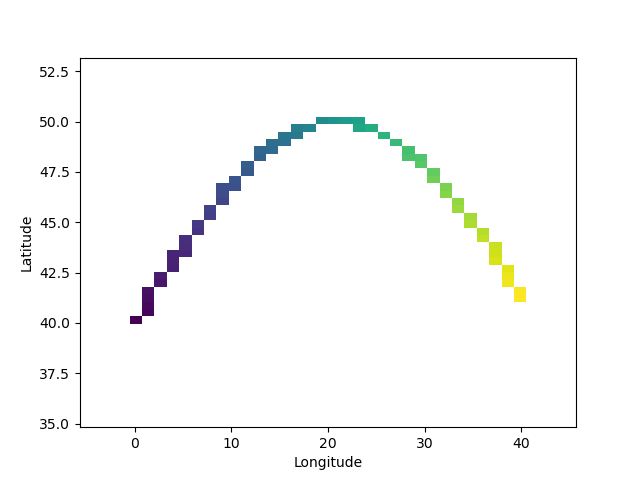
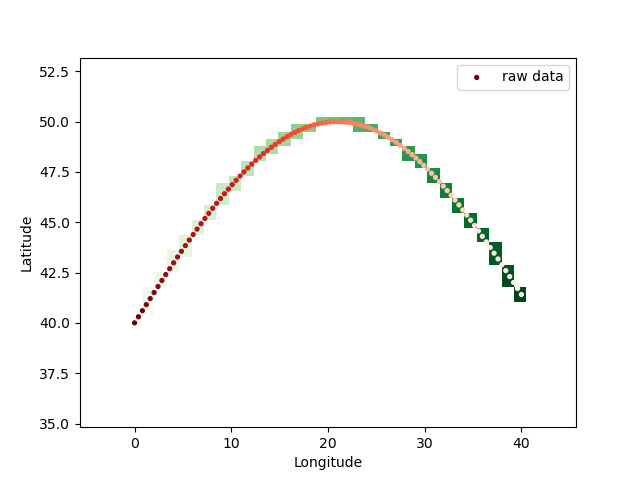
Update Sphinx
Add `installation` page to docs

Add `installation` page to docs

Changed region(s): [[0.2188, 0.2188, 0.8438, 0.6562], [0.7812, 0.125, 0.9062, 0.1875], [0.1875, 0.6562, 0.2188, 0.6875]]

diff --git a/src/oceanpack/helpers.py b/src/oceanpack/helpers.py
@@ -464,13 +464,15 @@ def grid_dataframe(points, vals, xi, export_grid=False):
     -------
     >>> df = pd.DataFrame({'lon': np.linspace(0, 40, 100),
     >>>                    'lat': np.sin(np.linspace(0, 3, 100))*10 + 40,
-    >>>                    'data': np.linspace(200,240,100)})
+    >>>                    'data': np.linspace(240,200,100)})
     >>> xi = np.linspace(-5, 45, 40)
     >>> yi = np.linspace(35, 53, 50)
     >>> gridded = grid_dataframe((df.lon, df.lat), df.data, (xi, yi))
-    >>> plt.pcolormesh(xi, yi, gridded, shading='auto')
+    >>> plt.pcolormesh(xi, yi, gridded, shading='auto', cmap='Greens_r')
+    >>> plt.scatter(df.lon, df.lat, c=df.data, marker='.', lw=.75, cmap='Reds', label='raw data')
     >>> plt.xlabel('Longitude')
     >>> plt.ylabel('Latitude')
+    >>> plt.legend()
     >>> plt.show()
 
     .. image:: ../_static/grid_dataframe_plot.png
@@ -510,7 +512,13 @@ def grid_dataframe(points, vals, xi, export_grid=False):
 
 def check_input_for_duplicates(func):
     """A decorator that checks a list of file paths (the first and only argument of the wrapped function) for duplicates.
-    Detected duplicates are dropped from the list such that the function can deal with the cleaned-up list."""
+    For example, when you call the function :func:`oceanpack.io_routines.read_oceanpack` with a list of many files, the
+    decorator checks the input for duplicates before the read-in routine actually processes the files.
+    The decorator makes use of the :func:`os.stat` signatures (file type, size, and modification time) to compare files
+    pair-wise.
+
+    Detected duplicates are dropped from the list such that the function can deal with the cleaned-up list.
+    """
     # The functools._wraps decorator ensures that `func` can still be parsed by Sphinx. Usually, decorated functions can not be parsed by Sphinx.
     @_wraps(func)
     def wrapper(file_list):

diff --git a/docsrc/conf.py b/docsrc/conf.py
@@ -79,7 +79,7 @@ bibtex_reference_style = 'author_year'
 
 
 def setup(app):
-    app.add_stylesheet('custom.css')
+    app.add_css_file('custom.css')
     
 # Add any paths that contain templates here, relative to this directory.
 templates_path = ['_templates']
@@ -251,7 +251,7 @@ latex_elements = {
 # Grouping the document tree into LaTeX files. List of tuples
 # (source start file, target name, title, author, documentclass [howto/manual]).
 latex_documents = [
-  ('index', 'user_guide.tex', u'oceanpack Documentation',
+  ('index', 'oceanpack_doc.tex', u'oceanpack Documentation',
    u'markusritschel', 'manual'),
 ]
 
@@ -278,11 +278,12 @@ latex_documents = [
 # -- External mapping ------------------------------------------------------------
 python_version = '.'.join(map(str, sys.version_info[0:2]))
 intersphinx_mapping = {
-    'sphinx': ('http://www.sphinx-doc.org/en/stable', None),
+    'sphinx': ('https://www.sphinx-doc.org/en/master', None),
     'python': ('https://docs.python.org/' + python_version, None),
-    'matplotlib': ('https://matplotlib.org', None),
+    'matplotlib': ('https://matplotlib.org/stable', None),
     'numpy': ('https://docs.scipy.org/doc/numpy', None),
-    'sklearn': ('http://scikit-learn.org/stable', None),
-    'pandas': ('http://pandas.pydata.org/pandas-docs/stable', None),
-    'scipy': ('https://docs.scipy.org/doc/scipy/reference', None),
+    'sklearn': ('https://scikit-learn.org/stable', None),
+    'pandas': ('https://pandas.pydata.org/pandas-docs/stable', None),
+    'scipy': ('https://docs.scipy.org/doc/scipy', None),
+    'xarray': ('https://docs.xarray.dev/en/stable', None),
 }

diff --git a/src/oceanpack/io_routines.py b/src/oceanpack/io_routines.py
@@ -67,7 +67,7 @@ def _read_oceanview_stream_file(file):
 
 
 @check_input_for_duplicates
-def read_oceanpack(files):
+def read_oceanpack(files) -> pd.DataFrame:
     """Read a single or multiple log files into a pd.DataFrame dataset."""
     if isinstance(files, str):
         files = [files]

diff --git a/docsrc/index.rst b/docsrc/index.rst
@@ -2,40 +2,34 @@
 oceanpack
 =========
 
-
-This is the documentation of the `oceanpack <https://github.com/markusritschel/oceanpack>`_ package.
+The `oceanpack <https://github.com/markusritschel/oceanpack>`_ package is a collection of routines that help with the quality control and processing of data collected with the OceanPack ferrybox system of SubCtech.
 
 .. note::
     This is **not** an official package. The company SubCtech is not involved in the development of the routines provided here.
 
+The OceanPack system measures underway :math:`CO_2` alongside water temperature, salinity and other parameters.
+Data are usually stored on an SD card but can also be streamed to a computer.
+The routines in this package contain routines for conversion of xCO2 to pCO2, for applying temperature corrections, computing the fugacity, etc.
 
-This package containes routines to read in log files of the SubCtech OceanPack as well as various helper functions to help with the data processing, e.g.
 
-* converting coordinates from the Analyzer's format into decimal digits
-* converting xCO2 to pCO2
-* applying temperature corrections
-* computing the fugacity fCO2
-* etc.
-
-A full description of the functions and the underlying algorithms can be found in the :ref:`py-modindex`.
+A full description of the functions and the underlying algorithms can be found in the Module Reference.
 
 .. TODO: Add a more extensive description here. Maybe include photos/images of the OceanPack etc. Mention any pecularities.
 
-Installation
+
+Contribution
 ============
-You can install this package on your machine via pip by executing
+The entire code is publicly available on `Github <https://github.com/markusritschel/oceanpack>`_.
+If you feel like contributing, issues and pull requests are welcome :-)
 
-::
 
-    $ pip install git+https://github.com/markusritschel/oceanpack.git#egg=oceanpack
-
-in your terminal.
 
 .. toctree::
    :maxdepth: 1
    :hidden:
-   :caption: Contents
-   
+   :caption: Content
+
+   installation
    examples.ipynb
    License <license>
    Changelog <changelog>

diff --git a/docsrc/installation.rst b/docsrc/installation.rst
@@ -1,0 +1,29 @@
+============
+Installation
+============
+
+Requirements
+============
+oceanpack is compatible with python 3.
+The package requires numpy, pandas, and tqdm.
+
+
+Installation via pip
+====================
+The easiest way to install the `oceanpack` package is via pip directly from this repository:
+
+::
+
+    $ pip install git+https://github.com/markusritschel/oceanpack.git#egg=oceanpack
+
+
+Clone repo and install locally
+==============================
+Alternatively, you can clone the repository from github and install the package locally:
+
+::
+
+    $ git clone git+https://github.com/markusritschel/oceanpack.git
+    $ cd oceanpack
+    $ python setup.py install
+
